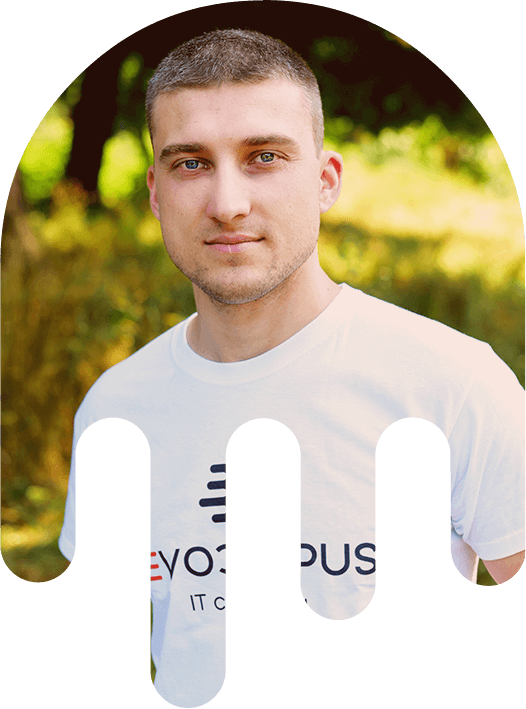
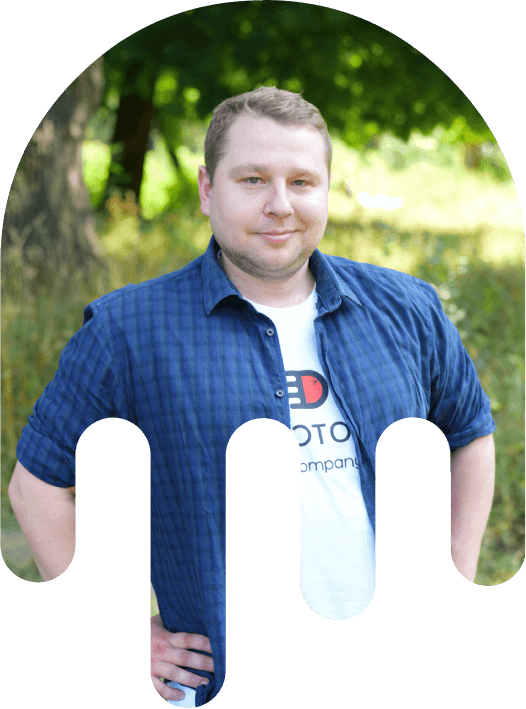
Add our cpecialists slider

diff --git a/src/chunks/our-team/our-team.html b/src/chunks/our-team/our-team.html
@@ -14,11 +14,12 @@
   </div>
 
   <div class="slideshow-container">
+
     <a class="prev" onclick="plusSlides(-1)">&#10094;</a>
     <div class="mySlides fade">     
       <div class="our-team__content">
         <div class="our-team__image-item">
-          <img class="our-team__image" src="./img/our-team-photo-01.png" alt="our team">
+          <img class="our-team__image" src="./img/our-team-photo-03.png" alt="our team">
         </div> 
         <div class="our-team__description">
           <div class="our-team__caption">Hi! My name is Alex</div>
@@ -75,10 +76,10 @@
     <div class="mySlides fade">     
       <div class="our-team__content">
         <div class="our-team__image-item">
-          <img class="our-team__image" src="./img/our-team-photo-01.png" alt="our team">
+          <img class="our-team__image" src="./img/our-team-photo-08.png" alt="our team">
         </div> 
         <div class="our-team__description">
-          <div class="our-team__caption">Hi! My name is Vitalii</div>
+          <div class="our-team__caption">Hi! My name is Roman</div>
   
           <div class="our-team__text">
             Roman provides the creative and innovative edge that every
@@ -87,6 +88,87 @@
             <br/>
             <br/>
             Roman helps you to achieve impressive design solutions 
+            that are not only beautiful to look at but practical too.           
+          </div>
+  
+            <div class="our-team__button-set temporarry-unavalable">
+            <div class="our-team__button do-button do-button_transparent">Read more</div>
+          </div>
+        </div>
+        <a class="next" onclick="plusSlides(1)">&#10095;</a>
+      </div>
+    </div>
+
+    <a class="prev" onclick="plusSlides(-1)">&#10094;</a>
+    <div class="mySlides fade">     
+      <div class="our-team__content">
+        <div class="our-team__image-item">
+          <img class="our-team__image" src="./img/our-team-photo-02.png" alt="our team">
+        </div> 
+        <div class="our-team__description">
+          <div class="our-team__caption">Hi! My name is Maria</div>
+  
+          <div class="our-team__text">
+            Maria provides the creative and innovative edge that every
+            brand needs, when developing an online presence.
+             
+            <br/>
+            <br/>
+            Maria helps you to achieve impressive design solutions 
+            that are not only beautiful to look at but practical too.           
+          </div>
+  
+            <div class="our-team__button-set temporarry-unavalable">
+            <div class="our-team__button do-button do-button_transparent">Read more</div>
+          </div>
+        </div>
+        <a class="next" onclick="plusSlides(1)">&#10095;</a>
+      </div>
+    </div>
+
+    <a class="prev" onclick="plusSlides(-1)">&#10094;</a>
+    <div class="mySlides fade">     
+      <div class="our-team__content">
+        <div class="our-team__image-item">
+          <img class="our-team__image" src="./img/our-team-photo-04.png" alt="our team">
+        </div> 
+        <div class="our-team__description">
+          <div class="our-team__caption">Hi! My name is Andrew</div>
+  
+          <div class="our-team__text">
+            Andrew provides the creative and innovative edge that every
+            brand needs, when developing an online presence.
+             
+            <br/>
+            <br/>
+            Andrew helps you to achieve impressive design solutions 
+            that are not only beautiful to look at but practical too.           
+          </div>
+  
+            <div class="our-team__button-set temporarry-unavalable">
+            <div class="our-team__button do-button do-button_transparent">Read more</div>
+          </div>
+        </div>
+        <a class="next" onclick="plusSlides(1)">&#10095;</a>
+      </div>
+    </div>
+
+    <a class="prev" onclick="plusSlides(-1)">&#10094;</a>
+    <div class="mySlides fade">     
+      <div class="our-team__content">
+        <div class="our-team__image-item">
+          <img class="our-team__image" src="./img/our-team-photo-06.png" alt="our team">
+        </div> 
+        <div class="our-team__description">
+          <div class="our-team__caption">Hi! My name is Andrew</div>
+  
+          <div class="our-team__text">
+            Andrew provides the creative and innovative edge that every
+            brand needs, when developing an online presence.
+             
+            <br/>
+            <br/>
+            Andrew helps you to achieve impressive design solutions 
             that are not only beautiful to look at but practical too.           
           </div>
   

diff --git a/src/chunks/our-team/our-team.scss b/src/chunks/our-team/our-team.scss
@@ -85,47 +85,17 @@
   &__button-set {
     margin-top: px-to-rem(35);
   }
-
-
 }
 
-.our-team .slideshow-container  .prev {
-    cursor: pointer;
-    position: absolute;
-    width: 40px;
-    margin-top: 350px;
-    height: fit-content;
-    padding: 16px;
-    color: white;
-    font-weight: bold;
-    font-size: 18px;
-    -webkit-transition: 0.6s ease;
-    transition: 0.6s ease;
-    border-radius: 0 3px 3px 0;
-    -webkit-user-select: none;
-    -moz-user-select: none;
-    -ms-user-select: none;
-    user-select: none;
-    display: block;
-
-  &:hover {
-    background-color: rgba(0,0,0,0.8);
-  }
-}
-
-.our-team .slideshow-container  .next {
+.our-team .slideshow-container .prev {
   cursor: pointer;
-  position: inherit;
+  position: absolute;
   width: 40px;
-  margin-top: 280px;
-  right: 0;
-  height: -webkit-fit-content;
-  height: -moz-fit-content;
+  margin-top: 350px;
   height: fit-content;
-  float: right;
   padding: 16px;
-  color: white;
-  font-weight: bold;
+  color: #f1592a;
+  font-weight: 700;
   font-size: 18px;
   -webkit-transition: 0.6s ease;
   transition: 0.6s ease;
@@ -137,6 +107,34 @@
   display: block;
 
   &:hover {
-    background-color: rgba(0,0,0,0.8);
+    background-color: rgba(0, 0, 0, 0.8);
+  }
+}
+
+.our-team .slideshow-container .next {
+  cursor: pointer;
+  position: inherit;
+  width: 40px;
+  margin-top: 280px;
+  right: 0;
+  height: -webkit-fit-content;
+  height: -moz-fit-content;
+  height: fit-content;
+  float: right;
+  padding: 16px;
+  color: #f1592a;
+  font-weight: 700;
+  font-size: 18px;
+  -webkit-transition: 0.6s ease;
+  transition: 0.6s ease;
+  border-radius: 0 3px 3px 0;
+  -webkit-user-select: none;
+  -moz-user-select: none;
+  -ms-user-select: none;
+  user-select: none;
+  display: block;
+
+  &:hover {
+    background-color: rgba(0, 0, 0, 0.8);
   }
 }

diff --git a/src/js/carousel.js b/src/js/carousel.js
@@ -27,19 +27,20 @@ function showSlides(n) {
   dots[slideIndex-1].className += " active";
 }
 
-
-
-var slideIndex = 0;
 showSlides();
+//Dinamic changing slider 
 
-function showSlides() {
-  var i;
-  var slides = document.getElementsByClassName("mySlides");
-  for (i = 0; i < slides.length; i++) {
-    slides[i].style.display = "none";
-  }
-  slideIndex++;
-  if (slideIndex > slides.length) {slideIndex = 1}
-  slides[slideIndex-1].style.display = "block";
-  setTimeout(showSlides, 4000);
-}
+// var slideIndex = 0;
+// showSlides();
+
+// function showSlides() {
+//   var i;
+//   var slides = document.getElementsByClassName("mySlides");
+//   for (i = 0; i < slides.length; i++) {
+//     slides[i].style.display = "none";
+//   }
+//   slideIndex++;
+//   if (slideIndex > slides.length) {slideIndex = 1}
+//   slides[slideIndex-1].style.display = "block";
+//   setTimeout(showSlides, 4000);
+// }
